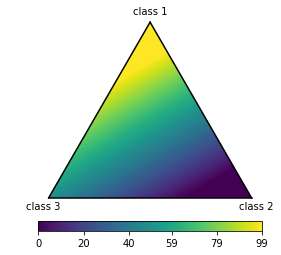
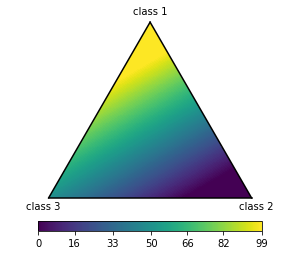
7 ticks in scatter and imshow

diff --git a/multi_bary_plot/multi_bary_plot.py b/multi_bary_plot/multi_bary_plot.py
@@ -21,6 +21,8 @@ class multi_bary_plot:
         The name of the value coumn in `data`.
     res : int
         The number of pixel along one axes.
+    n_ticks_colorbar : int
+        Number of ticks in the optional colorbars.
 
     Returns
     -------
@@ -38,12 +40,15 @@ class multi_bary_plot:
     fig, ax, im = bp.plot()
     """
 
-    def __init__(self, data, value_column=None, res=500):
+    def __init__(self, data, value_column=None, res=500, n_ticks_colorbar=7):
         if value_column is not None and value_column not in data.columns.values:
             raise ValueError('`value_column` musste be a coumn name of `data`.')
         if not isinstance(res, (int, float)):
             raise ValueError('`res` musst be numerical.')
         self.res = int(res)
+        if not isinstance(n_ticks_colorbar, (int, float)):
+            raise ValueError('n_ticks_colorbar needs to be a number.')
+        self.n_ticks_colorbar = int(n_ticks_colorbar)
         numerical = ['float64', 'float32', 'int64', 'int32']
         if not all([d in numerical for d in data.dtypes]):
             raise ValueError('The data needs to be numerical.')
@@ -132,6 +137,20 @@ class multi_bary_plot:
         values = self._vals_on_grid()
         return np.ma.masked_where(~self.in_hull, values)
 
+    def get_ticks(self, values=None):
+        """The ticks in the colorbar."""
+        if values is None:
+            values = self.plot_values
+        ub = np.max(values)
+        lb = np.min(values)
+        def make_ticks(n):
+            ticks = np.linspace(lb, ub, n)
+            return [float('{:.2g}'.format(t)) for t in ticks]
+        nticks = self.n_ticks_colorbar
+        ticks = make_ticks(nticks)
+        nticks += (ticks[0] < lb) + (ticks[-1] > ub)
+        return make_ticks(nticks)
+
     @property
     def text_position(self):
         """Vertex label positions."""
@@ -204,15 +223,7 @@ class multi_bary_plot:
         if colorbar:
             divider = make_axes_locatable(ax)
             cax = divider.append_axes('bottom', size='5%', pad=.2)
-            ub = np.max(self.plot_values)
-            lb = np.min(self.plot_values)
-            def make_ticks(n):
-                ticks = np.linspace(lb, ub, n)
-                return [float('{:.2g}'.format(t)) for t in ticks]
-            nticks = 6
-            ticks = make_ticks(nticks)
-            nticks += (ticks[0] < lb) + (ticks[-1] > ub)
-            ticks = make_ticks(nticks)
+            ticks = self.get_ticks(self.plot_values)
             fig.colorbar(im, cax=cax, orientation='horizontal', ticks=ticks)
         # manual limits because of masked data
         v = self.vertices
@@ -287,8 +298,7 @@ class multi_bary_plot:
                 vals = kwargs['c']
             else:
                 vals = self.plot_values
-            ticks = np.linspace(np.min(vals), np.max(vals), 6)
-            ticks = [float('{:.2g}'.format(i)) for i in ticks]
+            ticks = self.get_ticks(vals)
             fig.colorbar(pc, cax=cax, orientation='horizontal', ticks=ticks)
         return fig, ax, pc
 
